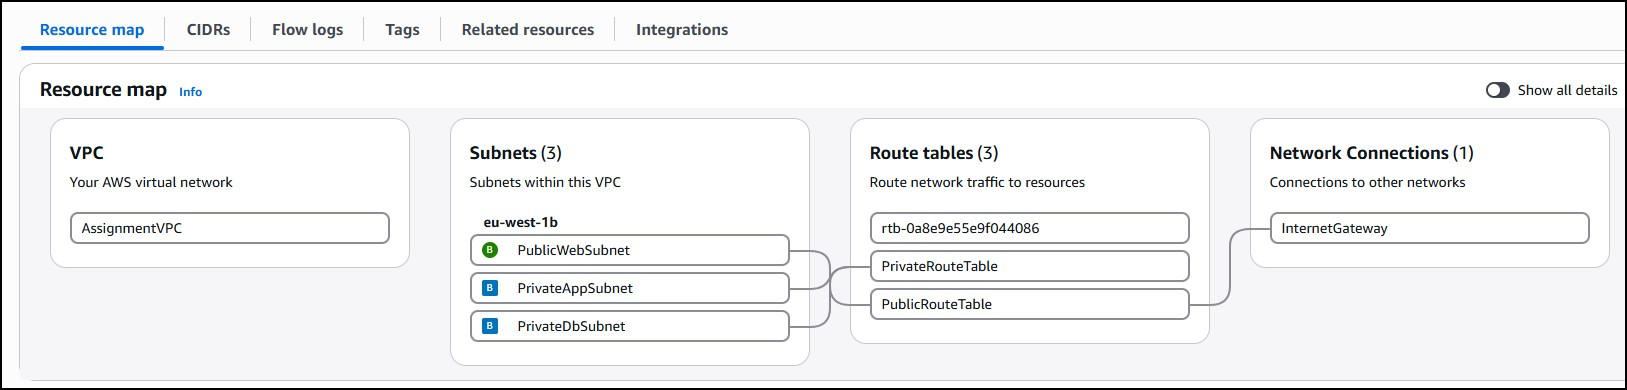
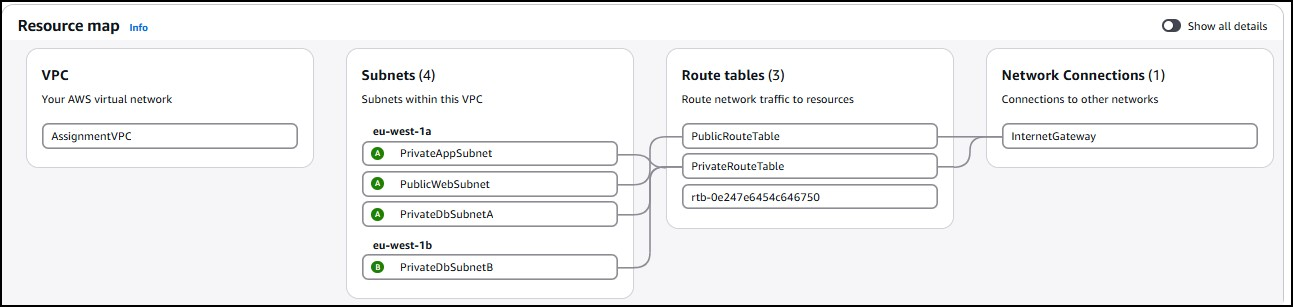
Updates to readme, CF Network and CF EC2 instances.

diff --git a/README.md b/README.md
@@ -37,49 +37,94 @@ aws s3 cp src/ s3://atu-l00213529-cloudformation/ --recursive --region eu-west-1
 ## Part 2 - Create a 3 tier application (webserver, appnode + database)
 To test CloudFormation I developed a a simple 3 tier application
 
-- Web tier using node js and express. A web server on port 80 will make a call to the mid tier app via port 5000.
-- App Tier using node js and express. Listening on port 5000, this will query MySQL Instance on port 3306.
-- DB Tier using MySQL. Running on port 3306. Has a simple database with 2 records.
+|Layer | Server | Subnet |Description |
+|---|---|---|---|
+|Web|webserver|PublicWebSubnet|using node js and express. A web server on port 8080 will make a call to the App tier app via port 5000 using a local nodejs script|
+|App|appserver|PrivateAppSubnet|using node js and express. Listening on port 5000, this will query MySQL Instance on port 3306 on the Dbtier. Simple function to retrieve records |
+|DB|RDS MySQL Instance| This is Running on port 3306. Has a simple "company_db" database  with 2 records.|
 
-A browser session to the IP address of the web tier will return a page with a load users button. Clicking this will result in a query to the database and records returned to the page.
+A browser session to the IP address of the web tier will return a page with a load users button. Clicking this will result in a query to the database and records returned to the page. 
 
 1. Create Networking Components. 
 I created the VPC and associated components on AWS console initially. Then used IaC generator to scan applicable resources and created the Template file. Then edited the file to make a consistent naming scheme for the components. I used Co-Pilot to ID sections of the IaC generated script that were unnecessary and updated the file.
 
 * Note : I wish to keep the VPC/subnets/security group creation seperate from the EC2 
-instances and application setup. This is in line with AWS best practices (see https://docs.aws.amazon.com/AWSCloudFormation/latest/UserGuide/best-practices.html#organizingstacks) 
+instances and application setup. This is in line with AWS best practices (see https://docs.aws.amazon.com/AWSCloudFormation/latest/UserGuide/best-practices.html#organizingstacks) . As the network components here incurs no cost , it is not neccessary to remove them after testing like EC2 or RDS databases. 
 
-* From the original layout I found that RDS Database required 2 Subnets, each in an Availability Zone, irrespective of if I was replicating the database across them  see [AWS Docs](https://docs.aws.amazon.com/AmazonRDS/latest/UserGuide/USER_VPC.WorkingWithRDSInstanceinaVPC.html). I've updated the network to that in Pull request #16 
+* Expaning on the original layout I found that RDS Database required 2 Subnets, each in an Availability Zone, irrespective of if I was replicating the database across them  see [AWS Docs](https://docs.aws.amazon.com/AmazonRDS/latest/UserGuide/USER_VPC.WorkingWithRDSInstanceinaVPC.html). I've updated the network to that in Pull request #16 
 * Further update was required to allow me pass my IP address as a paremetrer to the Network script , so the Web Security Group could add that to the inbound rules for port 22. See Pull Request #17
 
-* The resulting Template file is CF-NetworkStack-Assignment2.yaml. Apply this as follows : 
+
+
+
+
+* The resulting Template file is [here](/infra/CF-NetworkStack-Assignment2.yaml). Apply this as follows : 
 ````
 aws cloudformation create-stack ^
 --stack-name CF-NetworkStack-Assignment2 ^
 --template-body file://CF-NetworkStack-Assignment2.yaml ^
---parameters ParameterKey=SSHLocation,ParameterValue=xx.xx.xxx.xx/32 ^
+--parameters ^
+ ParameterKey=SSHLocation,ParameterValue=XX.XX.XX.XX/32 ^
+ ParameterKey=VPCCidr,ParameterValue=XX.XX.X.X/16 ^
 --region eu-west-1
 ````
 
 ![AssignmentVPC](images/AssignmentVPC.jpg)
 
+Component|Name|Notes|
+|---|---|---|
+|VPC|AssignmentVPC |Paremeter “ VPCCidr “ is passed as the CIDR block value. Script contains basic validation. Default 10.10.0.0/16|
+|Subnet|PublicWebSubnet|CIDR derived from VPCCirdr using a function e.g 10.10.0.0/24 |
+|Subnet|PrivateAppSubnet|CIDR derived from VPCCirdr. e.g  10.10.1.0/24 |
+|Subnet|PrivateDbSubnetA |CIDR is derived from VPCCirdr.e.g  10.10.2.0/24 |
+|Subnet|PrivateDbSubnetB|CIDR is derived from VPCCirdr. e.g  10.10.3.0/24 . Create in different Availability Zone to DbSubnetA – a requirement of RDS SQL.|
+|InternetGateway|InternetGateway |VPC is attached to this. |
+|Route Table|PublicRouteTable|route table with route to Internet Gateway for internet. Associated with PublicWebSubnet|
+|Route Table|PrivateRouteTable|route table with route to Internet Gateway for internet. Associated with PrivateAppSubnet and PrivateDbSubetA + B|
+|Security Group|WebSecurityGroup|"Inbound rules for 22 (SSH from IP only)| 8080 (user parameter)|
+|Security Group|AppSecurityGroup|"Inbound rule for 22 (SSH from web security group) | 5000 (user parameter).|
+|Security Group|DbSecurityGroup|Inbound rule for 3306 ( from app security group)| 
 
-2. Create basic Web app.
-The code/files for the web application are in src\3tierapp. I got initial code from Google AI for for webfront-end and nodejs app running on pm2 (node 1) querying a mysql database on a database server (node 2).  This was expanded to a full 3 tier app , with a server script on webnode forwarding to the app tier. This was tested on homelab Ubuntu VMs with the network isolation blocking all requests to the app and db tier except from the webserver or app node respectively on defined ports.
 
-3. Create Cloud Formation Scripts for EC2/Database. 
-The initial template structure was listed in an AWS article [here](https://repost.aws/articles/ARGpERJ3jISbOAlnmfVUsvMQ/building-a-secure-and-scalable-three-tier-architecture-on-aws-using-cloudformation) and also from a AI prompt. The app in this case will be based on the code in src\3tierapp in this repo, but in this case the scripts for the nodejs components were created on the fly during standup of the EC2 instances. 
+2. **Create basic Web app.**
+The code/files for the web application are in src\3tierapp. I got initial code from Google AI. 
+- This has a webfront-end, node.js app running under the pm2 process manager. Web UI will call nodejs and query the mysql database on a database server.  
+- I expanded this to a full 3 tier app , with a script on webserver forwarding calls to the appserver to query the SQL database. 
+- For learning, I tested this on 3 homelab Ubuntu VMs with the same network isolation/security groups as the planned VPC.
+
+3. **Create Cloud Formation Scripts for EC2 and RDS Database.** 
+* The initial template structure was listed in an AWS article [here](https://repost.aws/articles/ARGpERJ3jISbOAlnmfVUsvMQ/building-a-secure-and-scalable-three-tier-architecture-on-aws-using-cloudformation).  In this case the app will be based on the code in src\3tierapp in this repo, but in this case the scripts for the nodejs components were created on the fly during standup of the EC2 instances. 
+
+* The script is [here](/infra/EC2_CloudFormation.yml)
+
+The script is applied as follows 
+
+````
+aws cloudformation create-stack ^
+--stack-name CF-EC2Stack-Assignment2 ^
+--template-body file://EC2_CloudFormation.yml ^
+--region eu-west-1 ^
+--parameters ^
+ParameterKey=DBUsername,ParameterValue=xxx ^
+ParameterKey=DBPassword,ParameterValue=xxxxxx ^
+ParameterKey=DBName,ParameterValue=xxxxx
+````
 
 ![Screenshot of webpage](images/3tierAppWebPage.png)
 
+4. **Script Improvements for portability, better availability.**
+* CF-NetworkStack-Assignment2.yaml :  User parameters define the VPCCidr, AppPort, HttpPort and Database Ports. These are applied to the relevant security groups. 
+* EC2_CloudFormation.yml : User parameters define the  database connection values as well as values for AppPort, HttpPort and Database ports. 
+
 ## ToDo/Issues
- - Using the webserver for SSH access is not recommended. Look at a bastion server.  
- - Incorrect sequencing the creation of the nodejs components caused the startup to fail.
- - Database setup is not automated. I need to ssh to the app node, login to mysql and run [init.sql](src/3tierapp/database/init.sql)
+ - I'm using the webserver for SSH access is not recommended.(should use a bastion server)  
+ - ~~ Incorrect sequencing the creation of the nodejs components caused the startup to fail.~~ This has been corrected. 
+ - ~~ Database setup is not automated. I need to ssh to the app node, login to mysql and run [init.sql](src/3tierapp/database/init.sql) ~~ This has been corrected
  - To enable updates to the mid-tier required an external IP address, and ensure that the "app-sg-assignment1" has an outbound rule allowing access. 
  - The external IP of the webserver is subject to change. For a production system and elastic IP and associated gateway is needed. 
  - The environment is not a high availability configuration.
  - The website is not secured with a SSL cert. 
+ - ~~ Network configuration has hardcoded values for VPC, subnets.~~ This has been replaced with a VPCCidr parameter and I derive the subnet CIDR ranges from that . See [CF-NetworkStack-Assignment2.yaml](infra/CF-NetworkStack-Assignment2.yaml)
 
 
 ## Co-Pilot/Google AI  prompts
